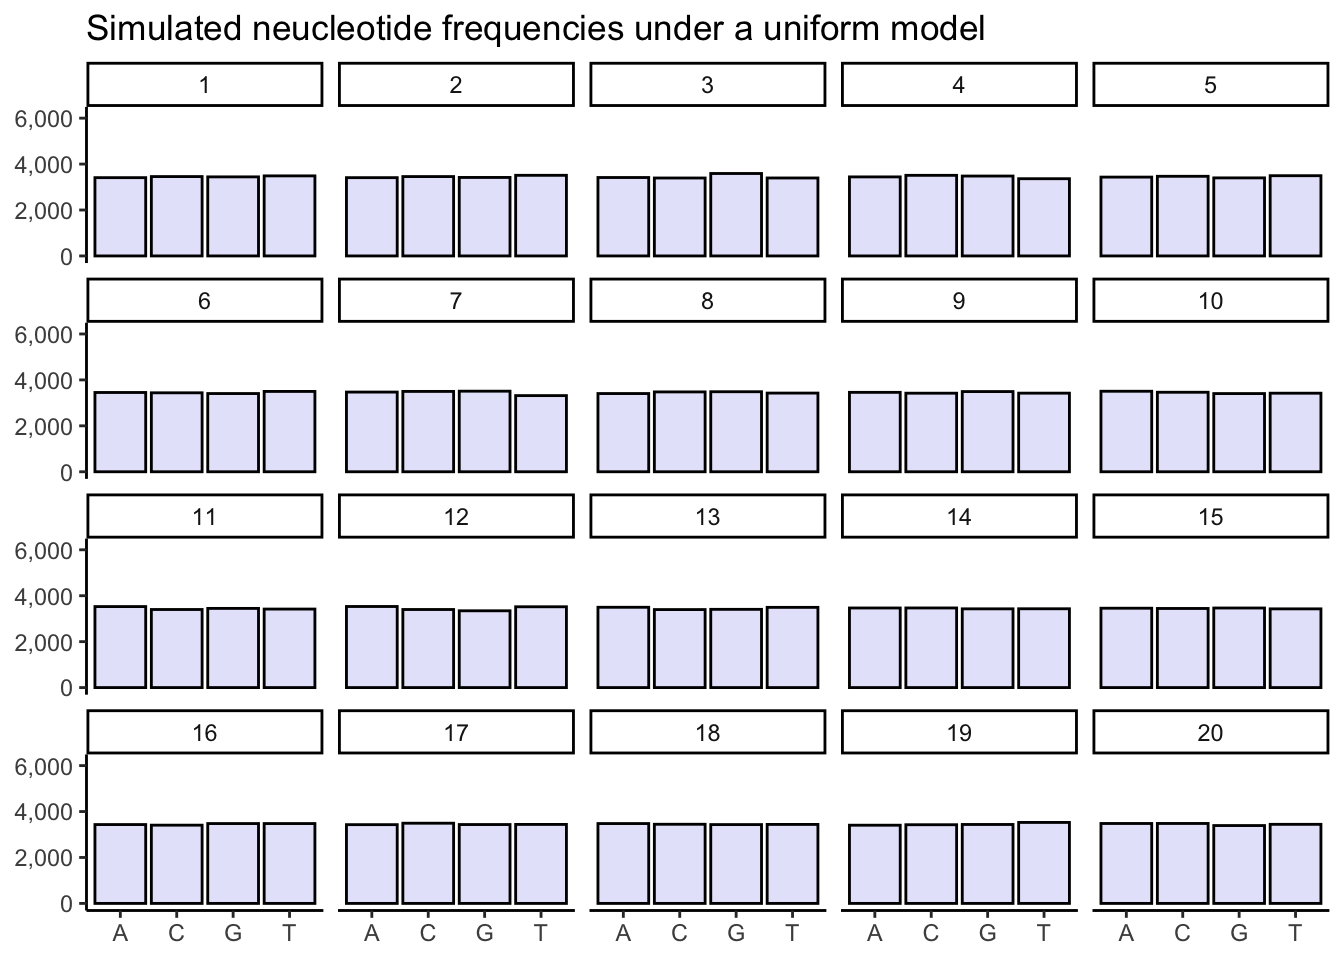
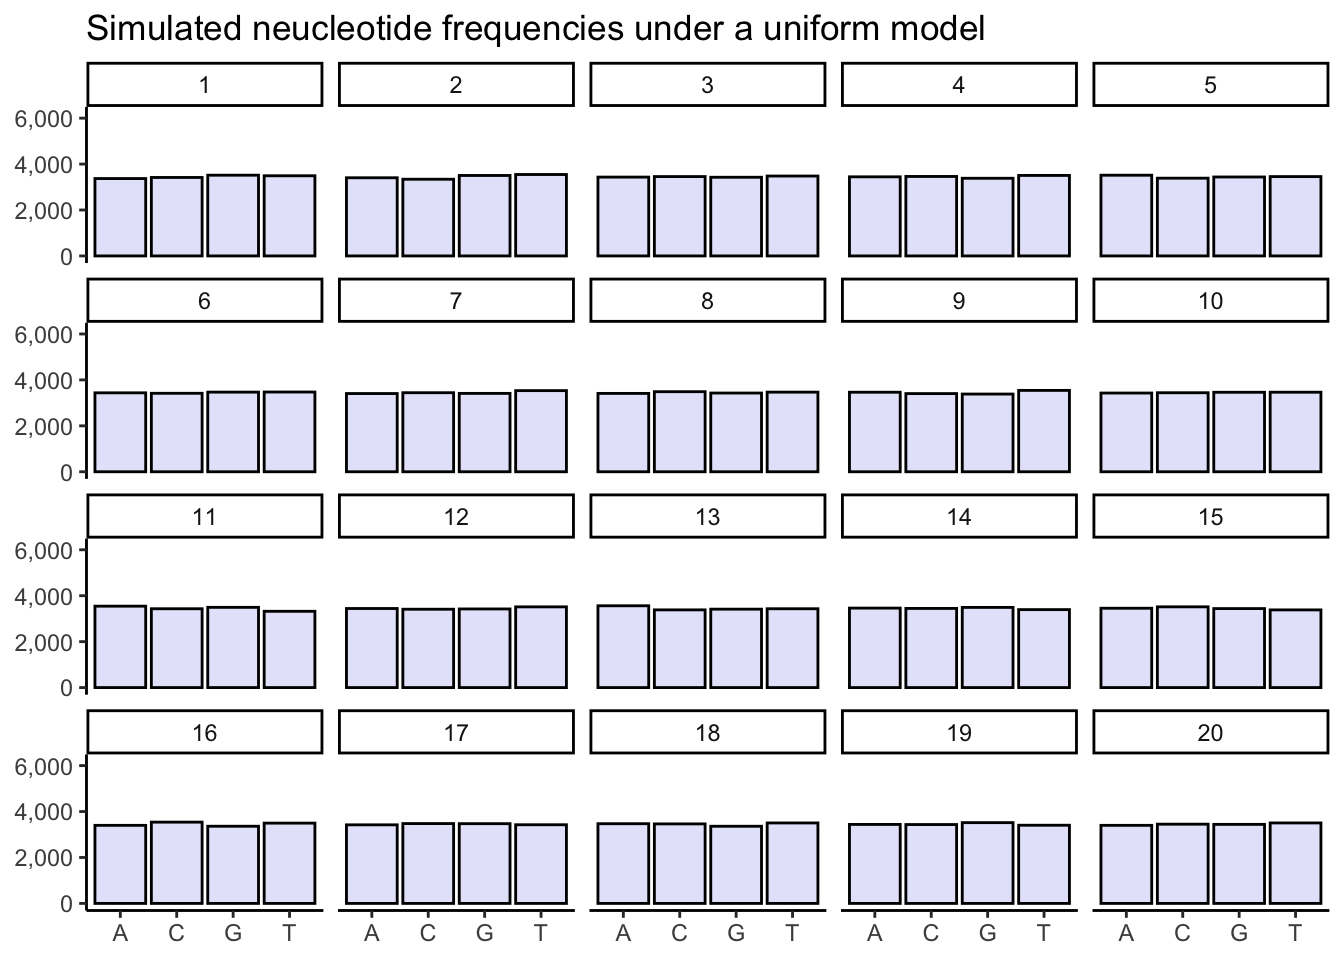
Re-render site

diff --git a/content/post/2020-02-11-exercise-solution-for-chapter-1.html b/content/post/2020-02-11-exercise-solution-for-chapter-1.html
@@ -193,15 +193,15 @@ probability of each nucleotide at each spot on the genome:</p>
                           size = sum(nuc_freq_df$n), 
                           prob = rep(1 / 4, 4)))</code></pre>
 <pre><code>##      [,1] [,2] [,3] [,4] [,5] [,6] [,7] [,8] [,9] [,10] [,11] [,12] [,13] [,14]
-## [1,] 3409 3409 3415 3442 3433 3452 3470 3406 3458  3506  3527  3531  3497  3466
-## [2,] 3456 3456 3394 3510 3468 3438 3499 3477 3421  3462  3400  3400  3397  3467
-## [3,] 3443 3418 3590 3479 3399 3406 3509 3485 3492  3405  3448  3344  3407  3429
-## [4,] 3486 3511 3395 3363 3494 3498 3316 3426 3423  3421  3419  3519  3493  3432
+## [1,] 3370 3404 3433 3445 3515 3437 3406 3412 3463  3428  3545  3443  3562  3461
+## [2,] 3417 3340 3456 3461 3386 3417 3442 3487 3404  3441  3433  3412  3384  3447
+## [3,] 3516 3504 3426 3382 3438 3468 3413 3428 3384  3461  3494  3424  3415  3491
+## [4,] 3491 3546 3479 3506 3455 3472 3533 3467 3543  3464  3322  3515  3433  3395
 ##      [,15] [,16] [,17] [,18] [,19] [,20]
-## [1,]  3456  3433  3429  3477  3405  3480
-## [2,]  3445  3407  3492  3446  3426  3481
-## [3,]  3465  3477  3434  3432  3437  3390
-## [4,]  3428  3477  3439  3439  3526  3443</code></pre>
+## [1,]  3455  3399  3421  3470  3439  3399
+## [2,]  3516  3539  3476  3462  3434  3450
+## [3,]  3440  3360  3472  3359  3517  3441
+## [4,]  3383  3496  3425  3503  3404  3504</code></pre>
 <p>Next, I moved this into a tibble so I could more easily rearrange and plot the data using
 facetting in <code>ggplot2</code>:</p>
 <pre class="r"><code>sim_nuc_freq_df &lt;- as_tibble(sim_nuc_freq) %&gt;% 
@@ -215,16 +215,16 @@ sim_nuc_freq_df %&gt;%
 <pre><code>## # A tibble: 10 x 3
 ##    nucleotide sample value
 ##    &lt;chr&gt;       &lt;dbl&gt; &lt;int&gt;
-##  1 A               1  3409
-##  2 C               1  3456
-##  3 G               1  3443
-##  4 T               1  3486
-##  5 A               2  3409
-##  6 C               2  3456
-##  7 G               2  3418
-##  8 T               2  3511
-##  9 A               3  3415
-## 10 C               3  3394</code></pre>
+##  1 A               1  3370
+##  2 C               1  3417
+##  3 G               1  3516
+##  4 T               1  3491
+##  5 A               2  3404
+##  6 C               2  3340
+##  7 G               2  3504
+##  8 T               2  3546
+##  9 A               3  3433
+## 10 C               3  3456</code></pre>
 <pre class="r"><code>ggplot(sim_nuc_freq_df, aes(x = nucleotide, y = value)) + 
   geom_col(fill = &quot;lavender&quot;, color = &quot;black&quot;) + 
   theme_classic() + 
@@ -254,16 +254,16 @@ sim_nuc_freq_df %&gt;%
 <pre><code>## # A tibble: 10 x 3
 ##    nucleotide sample value
 ##    &lt;chr&gt;       &lt;dbl&gt; &lt;int&gt;
-##  1 A               1  3377
-##  2 C               1  3528
-##  3 G               1  3359
-##  4 T               1  3530
-##  5 A               2  3471
-##  6 C               2  3448
-##  7 G               2  3403
-##  8 T               2  3472
-##  9 A               3  3410
-## 10 C               3  3476</code></pre>
+##  1 A               1  3449
+##  2 C               1  3384
+##  3 G               1  3476
+##  4 T               1  3485
+##  5 A               2  3436
+##  6 C               2  3428
+##  7 G               2  3418
+##  8 T               2  3512
+##  9 A               3  3453
+## 10 C               3  3354</code></pre>
 <p>Using this dataframe of simulations, we can measure the mean, minimum, and maximum frequencies
 of each nucleotide across all 1,000 simulations:</p>
 <pre class="r"><code>(sim_summary &lt;- sim_nuc_freq_df %&gt;% 
@@ -274,10 +274,10 @@ of each nucleotide across all 1,000 simulations:</p>
 <pre><code>## # A tibble: 4 x 4
 ##   nucleotide mean_freq min_freq max_freq
 ##   &lt;chr&gt;          &lt;dbl&gt;    &lt;int&gt;    &lt;int&gt;
-## 1 A              3450.     3310     3658
-## 2 C              3448.     3286     3601
-## 3 G              3448.     3278     3626
-## 4 T              3448.     3291     3652</code></pre>
+## 1 A              3448.     3288     3593
+## 2 C              3446.     3260     3630
+## 3 G              3449.     3271     3590
+## 4 T              3450.     3280     3600</code></pre>
 <p>To help compare this with the observed data, we can create a table with information from
 both the original data and the simulations under the null model:</p>
 <pre class="r"><code>nuc_freq_df %&gt;% 
@@ -302,22 +302,22 @@ both the original data and the simulations under the null model:</p>
 <tr class="odd">
 <td align="center">A</td>
 <td align="center">4,335</td>
-<td align="center">3,450 (3,310, 3,658)</td>
+<td align="center">3,448 (3,288, 3,593)</td>
 </tr>
 <tr class="even">
 <td align="center">C</td>
 <td align="center">1,225</td>
-<td align="center">3,448 (3,286, 3,601)</td>
+<td align="center">3,446 (3,260, 3,630)</td>
 </tr>
 <tr class="odd">
 <td align="center">G</td>
 <td align="center">2,055</td>
-<td align="center">3,448 (3,278, 3,626)</td>
+<td align="center">3,449 (3,271, 3,590)</td>
 </tr>
 <tr class="even">
 <td align="center">T</td>
 <td align="center">6,179</td>
-<td align="center">3,448 (3,291, 3,652)</td>
+<td align="center">3,450 (3,280, 3,600)</td>
 </tr>
 </tbody>
 </table>
@@ -367,11 +367,11 @@ sim_stat %&gt;%
 <pre><code>## # A tibble: 5 x 2
 ##   sample variability_stat
 ##    &lt;dbl&gt;            &lt;dbl&gt;
-## 1      1            7.56 
-## 2      2            0.907
-## 3      3            1.79 
-## 4      4            1.54 
-## 5      5            0.662</code></pre>
+## 1      1            1.81 
+## 2      2            1.61 
+## 3      3            5.43 
+## 4      4            0.743
+## 5      5            4.57</code></pre>
 <p>Here is a plot of the distribution of this statistic across the 1,000 simulations:</p>
 <pre class="r"><code>ggplot(sim_stat, aes(x = variability_stat)) + 
   geom_rect(data = sim_stat, aes(xmin = quantile(variability_stat, prob = 0.025),

diff --git a/content/post/2020-02-19-exercise-solution-for-chapter-2.html b/content/post/2020-02-19-exercise-solution-for-chapter-2.html
@@ -25,13 +25,16 @@ projects: []
 
 
 <p>As always, load libraries first.</p>
+<pre class="r"><code>library(ggplot2)
+library(tidyverse)
+library(dplyr)</code></pre>
 <div id="exercise-2.3-from-modern-statistics-for-modern-biologists" class="section level2">
 <h2>Exercise 2.3 from Modern Statistics for Modern Biologists</h2>
-<p>A sequence of three nucleotides codes for one amino acid. There are 4 nucleotides, thus 4^3 would allow for 64 different amino acids, however there are only 20 amino acids requiring only 20 combinations + 1 for an end signal. The code is redundant. Here we use the tuberculosis genome to understand codon bias.</p>
+<p>A sequence of three nucleotides codes for one amino acid. There are 4 nucleotides, thus <span class="math inline">\(4^3\)</span> would allow for 64 different amino acids, however there are only 20 amino acids requiring only 20 combinations + 1 for an “end” signal. (The “start” signal is the codon, ATG, which also codes for the amino acid methionine, so the start signal does not have a separate codon.) The code is redundant. But is the redundancy even among codons that code for the same amino acid? In other words, if alanine is coded by 4 different codons, do these codons code for alanine equally (each 25%), or do some codons appear more often than others? Here we use the tuberculosis genome to explore codon bias.</p>
 </div>
 <div id="a-explore-the-data-mtb-using-table-to-tabulate-the-amacid-and-codon-variables." class="section level1">
-<h1>a) Explore the data <code>mtb</code> using table to tabulate the AmAcid and Codon variables.</h1>
-<p>Each amino acid is encoded by 1-6 tri-nucleotide combinations.</p>
+<h1>a) Explore the data <code>mtb</code> using <code>table</code> to tabulate the <code>AmAcid</code> and <code>Codon</code> variables.</h1>
+<p>Each amino acid is encoded by 1–6 tri-nucleotide combinations.</p>
 <pre class="r"><code>mtb = read.table(&quot;example_datasets/M_tuberculosis.txt&quot;, header = TRUE)
 codon_no &lt;- rowSums(table(mtb))
 codon_no</code></pre>
@@ -39,20 +42,20 @@ codon_no</code></pre>
 ##   4   6   2   2   2   3   2   2   4   2   3   6   2   1   2   4   6   4   1   2 
 ## Val 
 ##   4</code></pre>
-<p>The PerThousands of each codon can be visualized, where each bar represents a different codon. But what does the “PerThousands” variable mean?</p>
+<p>The <code>PerThousands</code> of each codon can be visualized, where each plot represents an amino acid and each bar represents a different codon that codes for that amino acid. But what does the <code>PerThousands</code> variable mean?</p>
 <pre class="r"><code>ggplot(mtb, aes(x=Codon, y=PerThous)) +
   geom_col()+
   facet_wrap(~AmAcid, scales=&quot;free&quot;) +
   theme(axis.text.x = element_text(angle = 45, hjust = 1))</code></pre>
-<p><img src="/post/2020-02-19-exercise-solution-for-chapter-2_files/figure-html/unnamed-chunk-2-1.png" width="768" /></p>
+<p><img src="/post/2020-02-19-exercise-solution-for-chapter-2_files/figure-html/unnamed-chunk-3-1.png" width="768" /></p>
 </div>
 <div id="b-how-was-the-perthous-variable-created" class="section level1">
-<h1>b) How was the PerThous variable created?</h1>
-<p>The sum of all of the numbers of codons gives you the total number of codons in the M. tuberculosis genome: <code>all_codons</code>. Remember that this is not the size of the M. tuberculosis genome, but the number of codons in all M. tuberculosis genes. To get the size of the genome you’d have to multiply each codon by 3 (for each nucleotide) and add non-coding nucleotides (which we do not know from this dataset).</p>
+<h1>b) How was the <code>PerThous</code> variable created?</h1>
+<p>The sum of all of the numbers of codons gives you the total number of codons in the M. tuberculosis genome: <code>all_codons</code>. Remember that this is not the size of the M. tuberculosis genome, but the number of codons in all M. tuberculosis genes. To get the size of the genome, multiply each codon by 3 (for each nucleotide) and add all non-coding nucleotides (which we do not know from this data set).</p>
 <pre class="r"><code>all_codons = sum(mtb$Number)
 all_codons</code></pre>
 <pre><code>## [1] 1344223</code></pre>
-<p>The PerThousands variable is derived by dividing the number of occurances of the codon of interest by the total number of codons. Because this number is then small and hard to intrepret, multipling it by 1000 gives a value that is easy to make sense of quickly. Here is an example for proline. The four values returned align to the four codons that each code for proline.</p>
+<p>The <code>PerThousands</code> variable is derived by dividing the number of occurrences of the codon of interest by the total number of codons. Because this number is small and hard to interpret, multiplying it by 1000 gives a value that is easy to make sense of. Here is an example for proline. The four values returned align to the four codons that each code for proline.</p>
 <pre class="r"><code>pro  =  mtb[mtb$AmAcid == &quot;Pro&quot;, &quot;Number&quot;]
 pro / all_codons * 1000</code></pre>
 <pre><code>## [1] 31.560240  6.121752  3.405685 17.032144</code></pre>
@@ -87,7 +90,7 @@ codon_expected</code></pre>
 ## 19    Trp        1  1.0000000
 ## 20    Tyr        2  0.5000000
 ## 21    Val        4  0.2500000</code></pre>
-<p>Next, calculate the observed frequencies for each codon seen in the dataset:</p>
+<p>Next, calculate the observed frequencies for each codon seen in the data set:</p>
 <pre class="r"><code>codon_observed &lt;- full_join(mtb, codon_expected, by = &quot;AmAcid&quot;) %&gt;%
   group_by(AmAcid) %&gt;%
   mutate(am_length = sum(Number))%&gt;%
